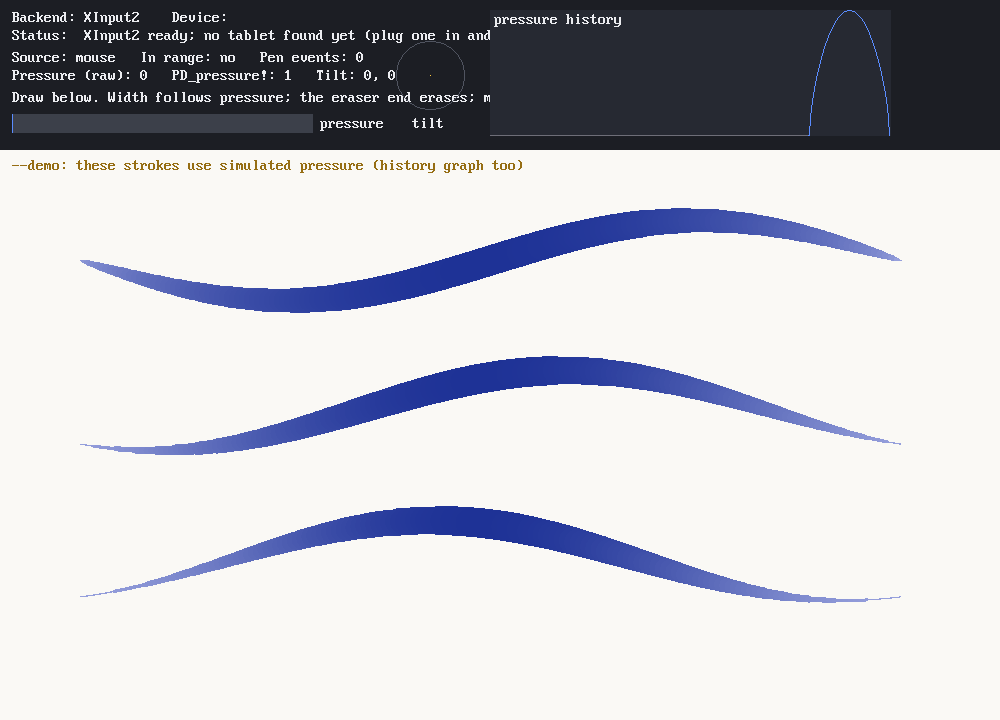
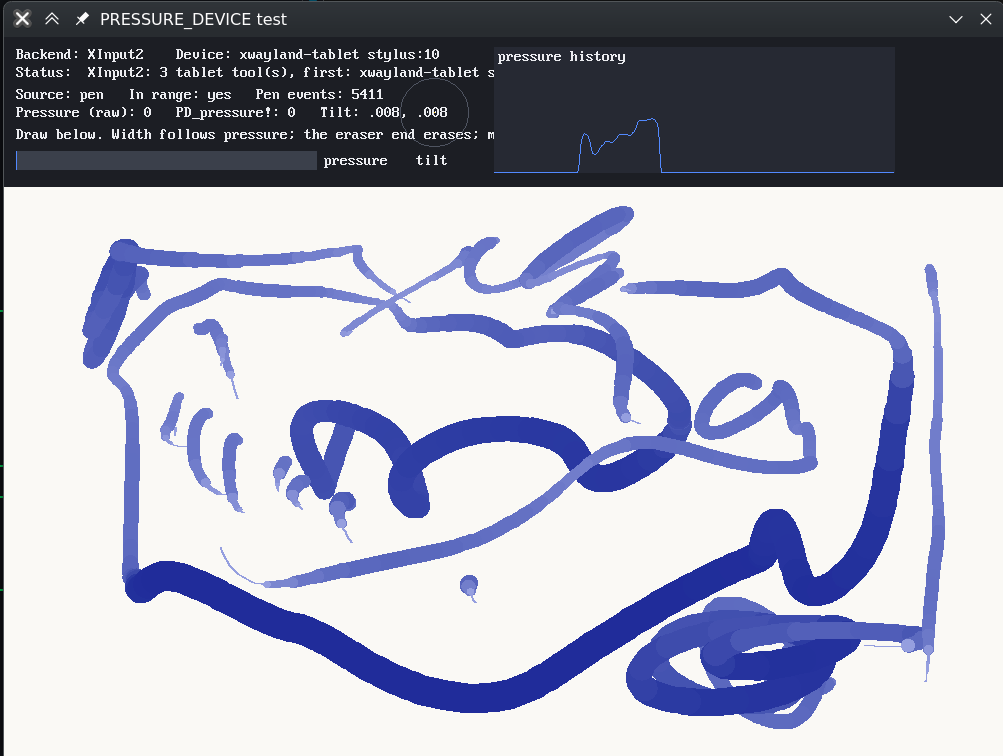
PRESSURE_DEVICE: README screenshot from a real HUION Inspiroy 2 M session (Linux/Wayland)

diff --git a/PRESSURE_DEVICE/README.md b/PRESSURE_DEVICE/README.md
@@ -15,11 +15,11 @@ every platform) and reports what the pen is doing:
 
 A mouse keeps working exactly as before: it reports pressure 1.
 
-![PRESSURE_DEVICE-TEST: live readout, pressure history and pressure-width strokes](pressure-device-test.png)
+![PRESSURE_DEVICE-TEST with a HUION Inspiroy 2 M on Linux (Wayland)](pressure-device-test.png)
 
-*`PRESSURE_DEVICE-TEST --demo` under Xvfb. The strokes and the history graph use
-simulated pressure, because a screenshot machine has no tablet. With a real pen
-the panel also shows the device name, `Source: pen` and a moving pressure bar.*
+*`PRESSURE_DEVICE-TEST` with a HUION Inspiroy 2 M on Linux (Wayland, via
+XWayland). Stroke width follows pen pressure; the graph is the pressure
+history of the last stroke.*
 
 ## Quick start
 
